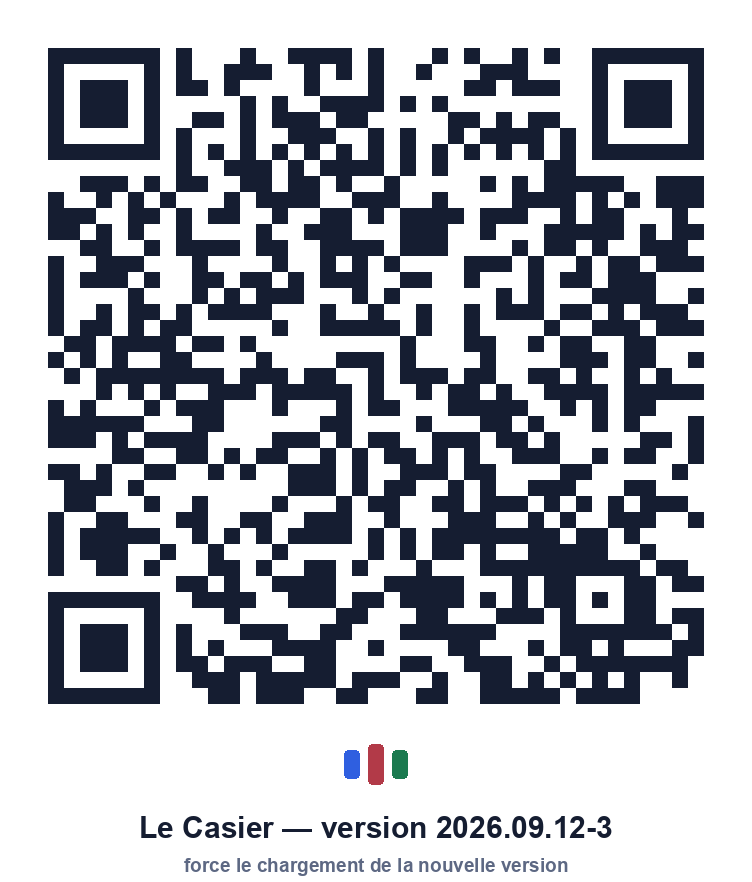
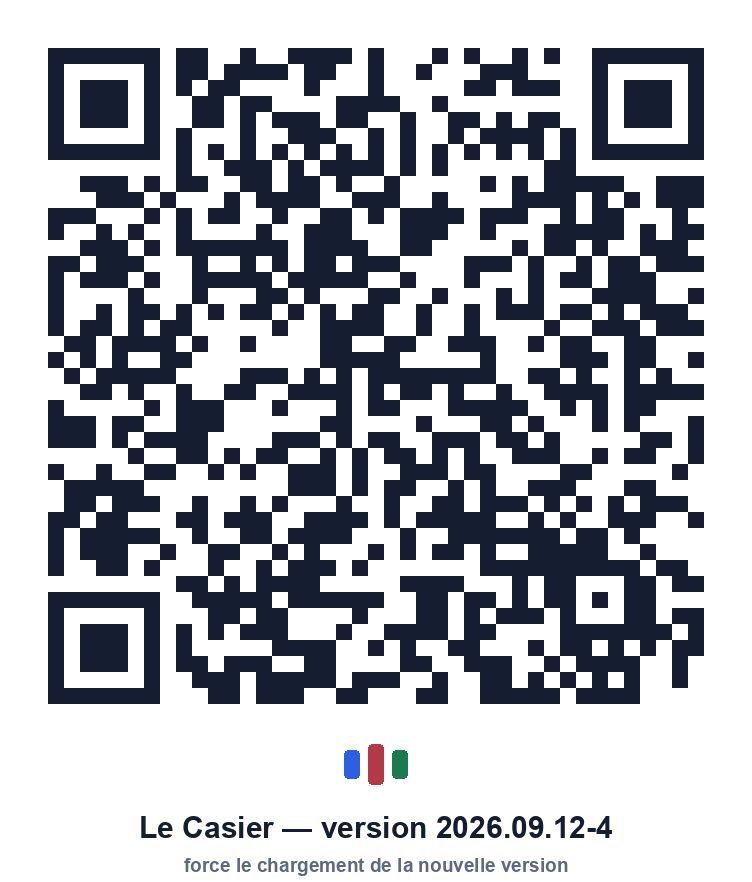
Faire écrire à l'application ce qu'elle fait de la photo
Troisième dépôt, troisième photo perdue, et cette fois l'élève voit la
photo prise sans que rien n'apparaisse ensuite. Deux causes restent
possibles et mes deux corrections précédentes portaient chacune sur
l'une d'elles : soit iOS décharge la page pendant la prise de vue, soit
la compression échoue ou se bloque. Rien, sur un iPhone sans console,
ne permet de trancher — alors on a supposé, deux fois.

L'application tient donc maintenant son propre journal, dans un endroit
qui survit à un rechargement : ouverture de l'appareil photo, fichier
reçu et son format, décodage et dimensions, réduction, vignette, envoi,
publication, et chaque échec avec sa raison. Le démarrage y est noté
aussi : s'il apparaît entre l'ouverture de l'appareil photo et la
réception du fichier, c'est iOS qui a déchargé la page, et le doute est
levé sans avoir à l'interpréter. Le journal se lit depuis le téléphone,
replié sous le champ photo.

Deux corrections de fond l'accompagnent. Les deux réductions se
faisaient de front : la photo pleine résolution et deux canevas
vivaient en même temps, ce qui est précisément la situation où Safari
rend la main en déchargeant la page. Elles se font désormais l'une
après l'autre. Et une compression qui ne se dénoue jamais était
indiscernable d'une compression lente : passé vingt-cinq secondes, elle
échoue et le dit, au lieu de laisser le formulaire en « Compression… »
pour toujours.

Enfin l'échec nomme son étape plutôt que de conseiller de réessayer,
[…]

diff --git a/index.html b/index.html
@@ -396,6 +396,10 @@ label .opt{font-weight:400;color:var(--faint)}
   border:1px solid var(--line);
 }
 .photo-apercu img{display:block;width:100%;height:auto}
+.journal{margin-top:10px;font-size:12px;color:var(--faint)}
+.journal summary{cursor:pointer;padding:4px 0}
+.journal pre{white-space:pre-wrap;word-break:break-word;font-size:11px;line-height:1.5;
+  background:var(--surface);border:1px solid var(--line);border-radius:8px;padding:8px;margin:6px 0;max-height:260px;overflow:auto}
 .obj-head{display:flex;gap:8px;align-items:flex-start}
 .obj h3{
   margin:0;font-family:"Public Sans",sans-serif;
@@ -889,7 +893,7 @@ label .opt{font-weight:400;color:var(--faint)}
   // secrets de la fonction serveur.
   var CLE_PUSH = "BPct_TKB40uTbAGg0UzNCCMcbk60LYQaGHmH0XqXWcTR_Lo7qj2U6wm37kCgpWWynKLWarLx3lWfhRR40eizzkM";
 
-  var VERSION_APP = "2026.09.12-3";   // affiché en bas : permet de savoir ce que tourne un téléphone
+  var VERSION_APP = "2026.09.12-4";   // affiché en bas : permet de savoir ce que tourne un téléphone
   var PLAFOND_PRIX  = 40;   // € — fixé par la Maison des lycéens, pas par les élèves
   var PLANCHER_PRIX = 0.1;  // € — en dessous, mieux vaut donner ou troquer
   var PAS_PRIX      = 0.05; // € — les prix vont de cinq centimes en cinq centimes
@@ -1105,6 +1109,40 @@ label .opt{font-weight:400;color:var(--faint)}
     return viaImage(fichier);
   }
 
+  // Un iPhone n'a pas de console. Tant que la prise de vue échoue sans
+  // rien dire, on ne peut que supposer — et on a déjà supposé deux fois.
+  // L'application tient donc elle-même le compte de ce qu'elle fait, dans
+  // un endroit qui survit à un rechargement de page : si iOS décharge
+  // l'onglet pendant la photo, le journal le montre en toutes lettres.
+  var JOURNAL = "casier-journal-photo";
+
+  function noter(etape, detail) {
+    try {
+      var j = JSON.parse(localStorage.getItem(JOURNAL) || "[]");
+      j.push({ t: Date.now(), e: etape, d: detail == null ? "" : String(detail) });
+      localStorage.setItem(JOURNAL, JSON.stringify(j.slice(-40)));
+    } catch (e) {}
+  }
+
+  function journalTexte() {
+    var j;
+    try { j = JSON.parse(localStorage.getItem(JOURNAL) || "[]"); } catch (e) { j = []; }
+    if (!j.length) return "Rien pour l'instant.";
+    return j.map(function (x) {
+      var d = new Date(x.t);
+      return ("0" + d.getHours()).slice(-2) + ":" + ("0" + d.getMinutes()).slice(-2) +
+             ":" + ("0" + d.getSeconds()).slice(-2) + "  " + x.e + (x.d ? " — " + x.d : "");
+    }).join("\n");
+  }
+
+  // Une promesse qui ne se dénoue jamais est indiscernable d'une promesse
+  // lente : sans délai, un blocage reste un silence.
+  function avecDelai(p, ms, quoi) {
+    return Promise.race([p, new Promise(function (_, rej) {
+      setTimeout(function () { rej(new Error("délai dépassé (" + quoi + ")")); }, ms);
+    })]);
+  }
+
   function viaImage(fichier) {
     return new Promise(function (res, rej) {
       var url = URL.createObjectURL(fichier);
@@ -1200,14 +1238,21 @@ label .opt{font-weight:400;color:var(--faint)}
     }).catch(function () {});
   }
 
+  // Les deux réductions se faisaient de front : sur un vieil iPhone, la
+  // photo pleine résolution et deux canevas vivaient en même temps, et
+  // Safari pouvait rendre la main en déchargeant la page. L'une après
+  // l'autre coûte quelques dixièmes de seconde et tient dans la mémoire.
   function preparerImages(fichier) {
     return versBitmap(fichier).then(function (src) {
-      return Promise.all([
-        reduire(src, PLEINE_PX, PLEINE_Q),
-        recadrer(src, VIGNETTE_L, VIGNETTE_H, VIGNETTE_Q)
-      ]).then(function (r) {
-        if (src.close) src.close();
-        return { pleine: r[0], mini: r[1] };
+      var d = dimensions(src);
+      noter("décodée", d.l + "×" + d.h);
+      return reduire(src, PLEINE_PX, PLEINE_Q).then(function (pleine) {
+        noter("photo réduite", Math.round(pleine.size / 1024) + " ko");
+        return recadrer(src, VIGNETTE_L, VIGNETTE_H, VIGNETTE_Q).then(function (mini) {
+          if (src.close) src.close();
+          noter("vignette", Math.round(mini.size / 1024) + " ko");
+          return { pleine: pleine, mini: mini };
+        });
       });
     });
   }
@@ -1829,6 +1874,7 @@ label .opt{font-weight:400;color:var(--faint)}
       }
       return charger();
     }).then(function () {
+      noter("annonce publiée", o.photo ? "avec photo" : "SANS photo");
       var muette = o.photo ? "" : " Sans photo.";
       if (o.mode === "troc")     toast("Annonce publiée. +1 crédit." + muette);
       else if (o.mode === "don") toast("Don publié. Merci — ça fait vivre le service." + muette);
@@ -2703,6 +2749,10 @@ label .opt{font-weight:400;color:var(--faint)}
               "</span>" +
             "</div>" +
             '<div class="photo-apercu" id="photo-apercu"' + (state.photo ? "" : ' hidden') + "></div>" +
+            '<details class="journal"><summary>Diagnostic photo</summary>' +
+              "<pre>" + esc(journalTexte()) + "</pre>" +
+              '<button type="button" class="btn ghost" data-photo="oublier">Effacer le journal</button>' +
+            "</details>" +
           "</div>" +
         "</div>" +
         '<div class="form-foot">' +
@@ -3341,23 +3391,31 @@ label .opt{font-weight:400;color:var(--faint)}
 
   function onPhotoChoisie(ev) {
     var f = ev.target.files && ev.target.files[0];
-    if (!f) return;
-    if (!/^image\//.test(f.type)) { toast("Ce fichier n'est pas une image."); return; }
+    if (!f) { noter("retour sans fichier"); return; }
+    noter("fichier reçu", (f.type || "type inconnu") + ", " + Math.round(f.size / 1024) + " ko");
+    if (!/^image\//.test(f.type)) {
+      noter("refusé", "ce n'est pas une image");
+      toast("Ce fichier n'est pas une image."); return;
+    }
 
     var etat = document.getElementById("photo-etat");
     if (etat) etat.textContent = "Compression…";
 
     retenirBrouillon();
-    preparerImages(f).then(function (images) {
+    avecDelai(preparerImages(f), 25000, "compression").then(function (images) {
       state.photo = images;
       rangerPhoto(images);
+      noter("photo prête");
       render();
       toast("Photo prête : " + Math.round(f.size / 1024) + " ko réduits à " +
             Math.round(images.mini.size / 1024) + " ko pour le catalogue.");
-    }).catch(function () {
+    }).catch(function (e) {
       state.photo = null;
+      noter("échec", (e && e.message) || "raison inconnue");
       render();
-      toast("Cette image n'a pas pu être lue. Réessayez.");
+      // Dire laquelle des étapes a lâché vaut mieux qu'un « réessayez »
+      // qui laisse recommencer la même manœuvre à l'identique.
+      toast("Photo non traitée : " + ((e && e.message) || "raison inconnue") + ".");
     });
   }
 
@@ -3515,11 +3573,14 @@ label .opt{font-weight:400;color:var(--faint)}
     }
 
     toast("Envoi de la photo…");
+    noter("envoi vers le serveur");
     televerser(state.photo).then(function (chemins) {
+      noter("photo envoyée", chemins.photo);
       champs.photo = chemins.photo;
       champs.photoMin = chemins.photo_min;
       deposer(champs);
-    }).catch(function () {
+    }).catch(function (e) {
+      noter("envoi échoué", (e && e.message) || "raison inconnue");
       toast("La photo n'a pas pu être envoyée. Réessayez, ou publiez sans photo.");
     });
   }
@@ -4539,8 +4600,17 @@ label .opt{font-weight:400;color:var(--faint)}
     var ph = ev.target.closest("[data-photo]");
     if (ph) {
       retenirBrouillon();
-      if (ph.getAttribute("data-photo") === "retirer") { state.photo = null; viderCoffre(); render(); }
-      else { var i = document.getElementById("d-photo"); if (i) i.click(); }
+      if (ph.getAttribute("data-photo") === "oublier") {
+        try { localStorage.removeItem(JOURNAL); } catch (e) {}
+        render(); return;
+      }
+      if (ph.getAttribute("data-photo") === "retirer") {
+        state.photo = null; viderCoffre(); noter("photo retirée"); render();
+      } else {
+        var i = document.getElementById("d-photo");
+        noter("ouverture appareil photo");
+        if (i) i.click();
+      }
       return;
     }
 
@@ -4625,6 +4695,10 @@ label .opt{font-weight:400;color:var(--faint)}
   }
 
   function demarrer() {
+    // Cette ligne est la plus importante du journal : si elle apparaît
+    // entre « ouverture appareil photo » et « fichier reçu », c'est iOS
+    // qui a déchargé la page pendant la prise de vue.
+    noter("démarrage de l'application", VERSION_APP);
     if (typeof supabase === "undefined" || !supabase.createClient) {
       replier("bibliothèque cliente non chargée");
       return;

diff --git a/sw.js b/sw.js
@@ -5,7 +5,7 @@
 // première réponse reçue, définitivement. Seuls les fichiers de
 // l'application — qui ne changent qu'à une publication — sont cachés.
 
-const VERSION = "casier-20260912-3";
+const VERSION = "casier-20260912-4";
 const COQUILLE = [
   "./",
   "./index.html",
